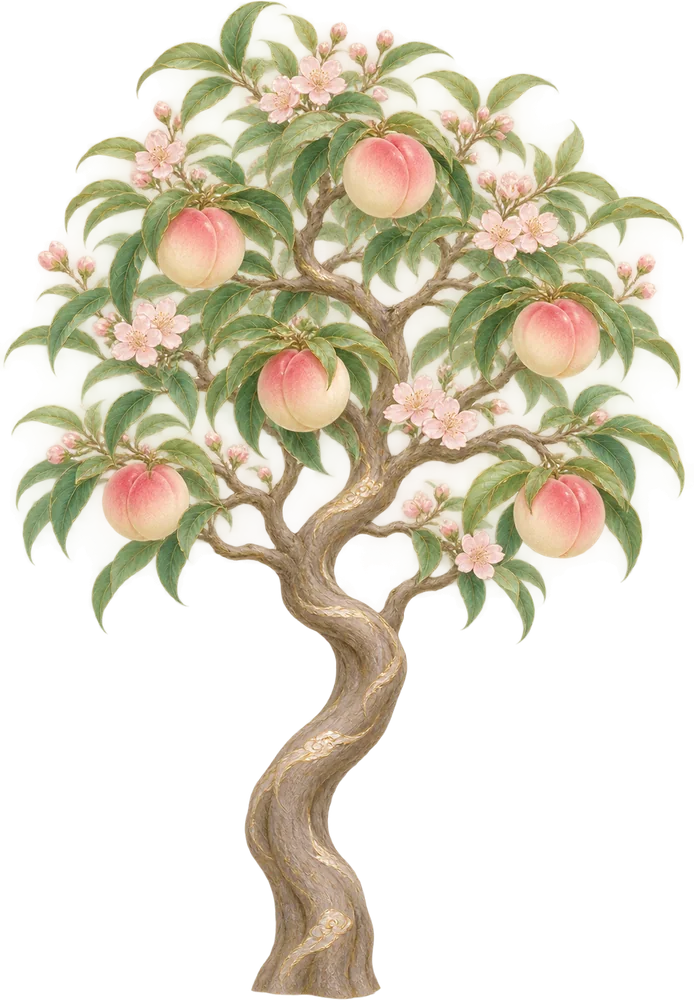
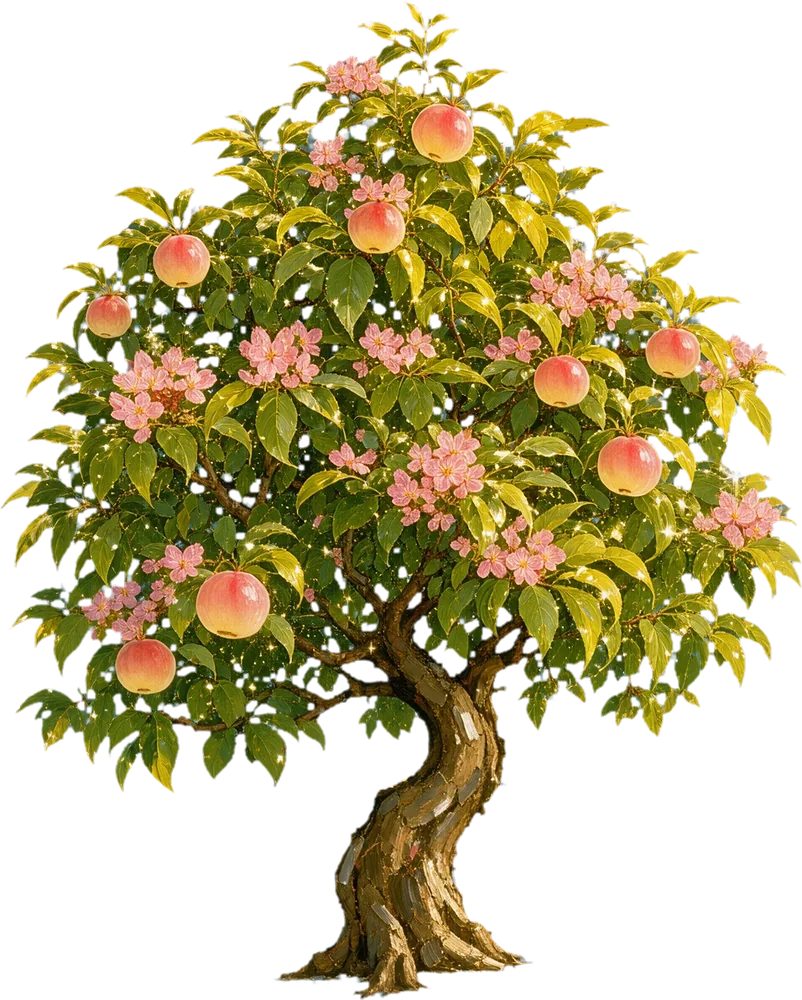
會動的元素換成鳳凰的油畫風（蟠桃樹、金蓮、稻穗、虎爺），另外加比較用的油畫版首頁（?look=oil、?look=oil-red）
- 圖都是 AI Video 用 FLUX 做的，使用者照推薦挑；tools/key_v2.py 去背（量背景色多突出，邊緣內縮 2 像素去掉色邊）
- 金蓮本身就畫成金花、青瓷葉，不用再跑 gold_lotus；稻穗不再壓低顏色
- 油畫版：大門（月白、朱紅）用現在大門的透明度，門洞、匾額、青鳥停的點都一樣；背景水平線一樣在 57.5%；開場的凡間和雲
- 不加網址的月白版不變

diff --git a/index.html b/index.html
@@ -25,6 +25,11 @@
         )
           document.documentElement.classList.add("no-intro");
       } catch (e) {}
+      // 比較用的油畫版：網址加 ?look=oil（月白油畫）或 ?look=oil-red（朱紅油畫），大門、背景、開場的雲換成油畫風
+      try {
+        var look = new URLSearchParams(location.search).get("look");
+        if (look === "oil" || look === "oil-red") document.documentElement.dataset.look = look;
+      } catch (e) {}
     </script>
   </head>
   <body>
@@ -34,6 +39,13 @@
       <img class="intro-earth" src="assets/intro-earth.webp" alt="" />
       <img class="intro-clouds back" src="assets/intro-clouds-2.webp" alt="" />
       <img class="intro-clouds front" src="assets/intro-clouds.webp" alt="" />
+      <script>
+        // 油畫版：開場的三張圖換掉
+        if (document.documentElement.dataset.look)
+          [["intro-earth", "intro-earth"], ["intro-clouds.back", "intro-clouds-2"], ["intro-clouds.front", "intro-clouds"]].forEach(function (p) {
+            document.querySelector(".intro ." + p[0]).src = "assets/oil/" + p[1] + ".webp";
+          });
+      </script>
       <div class="intro-veil"></div>
       <button type="button" class="intro-skip">略過</button>
     </div>
@@ -71,6 +83,11 @@
           <div class="door-glow" id="doorGlow"></div>
           <canvas id="cloth" aria-hidden="true"></canvas>
           <img class="gate-img" id="gateImg" src="assets/gate-grand.webp" alt="" draggable="false" />
+          <script>
+            // 油畫版：大門的圖在下載前就換掉
+            var look = document.documentElement.dataset.look;
+            if (look) document.getElementById("gateImg").src = look === "oil-red" ? "assets/oil/gate-red.webp" : "assets/oil/gate.webp";
+          </script>
           <canvas class="gate-blur" id="gateBlur" aria-hidden="true"></canvas>
           <div class="plaque" id="plaque" role="img" aria-label="慈惠道場"></div>
         </div>

diff --git a/js/gate.js b/js/gate.js
@@ -1,7 +1,8 @@
 // 大門圖片的位置資料（設計座標：大門圖寬 1600）。
 // 換新的大門圖時，跑 tools/prep_gate_grand.py 會印出門洞位置，再更新這裡。
+// 有三版：現在的月白版，和比較用的油畫版（網址加 ?look=oil 月白油畫、?look=oil-red 朱紅油畫）。
 
-export const GATE = {
+const MOON = {
   src: "assets/gate-grand.webp",
   w: 1600,
   h: 1070,
@@ -22,3 +23,24 @@ export const GATE = {
     { x: 1380, y: 403, face: -1 }
   ]
 };
+
+// 比較用的油畫版：AI Video 拿現在的大門改畫，透明度也直接用現在大門的（tools/prep_oil.py），
+// 所以門洞、匾額、青鳥停的點都一樣，只換圖
+const OIL = { ...structuredClone(MOON), src: "assets/oil/gate.webp" };
+const OIL_RED = { ...structuredClone(MOON), src: "assets/oil/gate-red.webp" };
+
+const GATES = { moon: MOON, oil: OIL, "oil-red": OIL_RED };
+
+// 背景和開場的圖
+const ASSETS = {
+  moon: { bg: "assets/bg-yaochi.webp", earth: "assets/intro-earth.webp", clouds: "assets/intro-clouds.webp", clouds2: "assets/intro-clouds-2.webp" },
+  oil: { bg: "assets/oil/bg.webp", earth: "assets/oil/intro-earth.webp", clouds: "assets/oil/intro-clouds.webp", clouds2: "assets/oil/intro-clouds-2.webp" }
+};
+ASSETS["oil-red"] = { ...ASSETS.oil, bg: "assets/oil/bg-red.webp" };
+
+// 現在是哪一版：index.html 開頭的小程式看網址設定 <html data-look>（測試的時候沒有網頁，就是月白版）
+const asked = typeof document !== "undefined" ? document.documentElement.dataset.look : "";
+export const LOOK = GATES[asked] ? asked : "moon";
+export const gateFor = (look) => GATES[look] || MOON;
+export const lookAssets = (look) => ASSETS[look] || ASSETS.moon;
+export const GATE = gateFor(LOOK);

diff --git a/js/lake-view.js b/js/lake-view.js
@@ -2,6 +2,7 @@
 // 畫布放在 .sky-img 裡面，跟原本的 CSS 背景圖疊在同一個位置：
 // 視差（跟著滑鼠微微移動）、走進門的放大、每位神明的色調（::after）都照舊套用。
 // 顯示卡不合作時就不畫，底下原本的 CSS 背景圖還在，看起來只是不會動。
+import { LOOK, lookAssets } from "./gate.js";
 import { coverMap, waterTop, createLake, touch, stepLake, rippleRadius, rippleAmp, remapRipples, HORIZON, MAX_RIPPLES } from "./lake.js";
 
 const POS_Y = 0.6; // 跟 style.css 的 background-position 一樣（center 60%）
@@ -267,6 +268,6 @@ export function loadLakeImage() {
     const im = new Image();
     im.onload = () => res(im);
     im.onerror = () => res(null);
-    im.src = "assets/bg-yaochi.webp";
+    im.src = lookAssets(LOOK).bg; // 跟 CSS 背景同一張（月白版或油畫版）
   });
 }

diff --git a/style.css b/style.css
@@ -46,6 +46,13 @@ body {
   transform: translate3d(calc(var(--mx, 0) * -14px), calc(var(--my, 0) * -8px), 0) scale(var(--zoom, 1));
   transition: transform 2s var(--ease);
 }
+/* 比較用的油畫版（網址加 ?look=oil 或 ?look=oil-red） */
+[data-look="oil"] .sky-img {
+  background-image: url("assets/oil/bg.webp");
+}
+[data-look="oil-red"] .sky-img {
+  background-image: url("assets/oil/bg-red.webp");
+}
 /* 每位神明一層不同的晨光色調 */
 .sky-img::after {
   content: "";

diff --git a/tools/key_v2.py b/tools/key_v2.py
@@ -1,0 +1,100 @@
+"""把 AI Video（FLUX）做的油畫風元素去背，存成透明 PNG，給 tools/prep_elements.py、prep_peach.py 等接著用。
+用法: python -I tools/key_v2.py
+輸入: assets/raw/chatgpt2/*（使用者 2026-11-15 照推薦挑的那張）
+輸出: assets/raw/chatgpt2/keyed/{名稱}.png
+
+FLUX 畫不出純色背景（有筆觸、顏色也不太一樣），所以不量「跟某個顏色多近」，改量「背景那個顏色多突出」：
+  綠底：綠比紅藍高多少；洋紅底：紅藍比綠高多少；藍底：藍比紅綠高多少；黑底：多亮。
+  背景那種顏色越突出 → 越透明，邊緣用一小段漸變；邊緣把混進來的背景色壓掉。
+最後只留大塊的（主體），背景上零星的小點、小火星拿掉。
+"""
+from pathlib import Path
+
+import numpy as np
+from PIL import Image
+from scipy import ndimage
+
+RAW = Path("assets/raw/chatgpt2")
+OUT = RAW / "keyed"
+
+# 名稱: (來源檔, 背景, 保留小塊的最小面積比例)
+# TIGHT：背景突出到角落典型值的幾成就算背景（預設 0.7；稻穗原圖在穀粒外畫了一圈淡粉紅的光，要更嚴）
+TIGHT = {"rice": 0.35}
+ITEMS = {
+    "peach-tree": ("peach-tree-v2-1.png", "blue", 0.002),
+    "lotus-open": ("lotus-open-v2-1.png", "magenta", 0.002),
+    "lotus-bud": ("lotus-bud-v2-1.png", "magenta", 0.002),
+    "lotus-leaf": ("lotus-leaf-v2-2.png", "magenta", 0.002),
+    "rice": ("rice-v2-2.png", "magenta", 0.0005),
+    "tiger": ("tiger-v2-2.png", "green", 0.002),
+    "fuchen": ("fuchen-2.png", "black", 0.0005),
+    "cloud-wisp": ("cloud-wisp-4.png", "black", 0.002),
+    "qiankunquan": ("qiankunquan-2.png", "green", 0.002),
+    "huojianqiang": ("huojianqiang-2.png", "green", 0.0005),
+}
+
+
+def dominance(rgb, bg):
+    r, g, b = rgb[..., 0], rgb[..., 1], rgb[..., 2]
+    if bg == "green":
+        return g - np.maximum(r, b)
+    if bg == "magenta":
+        return np.minimum(r, b) - g
+    if bg == "blue":
+        return b - np.maximum(r, g)
+    raise ValueError(bg)
+
+
+def key(rgb, bg, tight=0.7):
+    if bg == "black":
+        lum = rgb.max(axis=2)
+        a = np.clip((lum - 45) / 70, 0, 1)
+        out = rgb / np.maximum(a[..., None], 0.3)
+        return out, a
+    d = dominance(rgb, bg)
+    # 量四個角：背景有多突出（每張不太一樣）
+    corners = np.concatenate([d[:40, :40].ravel(), d[:40, -40:].ravel(), d[-40:, :40].ravel(), d[-40:, -40:].ravel()])
+    full = np.percentile(corners, 20)  # 這麼突出 = 完全是背景
+    # 背景的筆觸有深有淺：突出到「角落典型值的 7 成」就算背景，3 成以下才完全不透明（邊緣不留一圈背景色）
+    a = np.clip((full * tight - d) / (full * 0.4), 0, 1)
+    # 邊緣去色：邊緣的顏色 = 主體 ×a + 背景 ×(1-a)，把背景那一份扣掉（背景色用四個角的中位數）
+    edge = lambda x: np.concatenate([x[:40, :40].reshape(-1, 3), x[:40, -40:].reshape(-1, 3), x[-40:, :40].reshape(-1, 3), x[-40:, -40:].reshape(-1, 3)])
+    bgcol = np.median(edge(rgb), axis=0)
+    av = np.maximum(a, 0.15)[..., None]
+    out = np.clip((rgb - (1 - av) * bgcol) / av, 0, 255)
+    # 還殘留的背景色壓掉（只壓到跟其他顏色一樣高，主體本身的顏色不受影響）
+    if bg == "green":
+        out[..., 1] = np.minimum(out[..., 1], np.maximum(out[..., 0], out[..., 2]))
+    elif bg == "magenta":
+        out[..., 2] = np.where(a < 1, np.minimum(out[..., 2], out[..., 1] + 10), out[..., 2])
+    elif bg == "blue":
+        out[..., 2] = np.where(a < 1, np.minimum(out[..., 2], np.maximum(out[..., 0], out[..., 1]) + 10), out[..., 2])
+    # FLUX 的筆觸會把背景色混進主體最外面 1～2 像素（細細一圈粉紅或綠）：透明度往內縮 2 像素、再柔化
+    a = ndimage.minimum_filter(a, size=5)
+    a = ndimage.uniform_filter(a, size=3)
+    return out, a
+
+
+def keep_big(a, min_frac):
+    lab, n = ndimage.label(a > 0.1)
+    if n == 0:
+        return a
+    sizes = ndimage.sum(np.ones_like(a), lab, range(1, n + 1))
+    keep = np.zeros(n + 1, bool)
+    keep[1:] = sizes >= max(min_frac * a.size, 30)
+    keep[1 + int(np.argmax(sizes))] = True
+    # 半透明的邊（< 0.1）跟著旁邊的大塊走：稍微長大一點的範圍內才保留
+    mask = ndimage.binary_dilation(keep[lab], iterations=3)
+    return np.where(mask, a, 0)
+
+
+OUT.mkdir(parents=True, exist_ok=True)
+for name, (src, bg, min_frac) in ITEMS.items():
+    rgb = np.asarray(Image.open(RAW / src).convert("RGB")).astype(float)
+    out, a = key(rgb, bg, TIGHT.get(name, 0.7))
+    a = keep_big(a, min_frac)
+    a[a < 0.03] = 0
+    img = Image.fromarray(np.dstack([out, a * 255]).clip(0, 255).astype(np.uint8), "RGBA")
+    img.save(OUT / f"{name}.png")
+    ys, xs = np.nonzero(a > 0.5)
+    print(f"{name:13s} {bg:7s} 主體 {xs.min()}-{xs.max()} x {ys.min()}-{ys.max()}  不透明 {(a > 0.5).mean():.0%}")

diff --git a/tools/prep_oil.py b/tools/prep_oil.py
@@ -1,0 +1,66 @@
+"""比較用的油畫版首頁（網址 ?look=oil 月白油畫、?look=oil-red 朱紅油畫）：大門、背景、開場的圖。
+用法: python -I tools/prep_oil.py
+輸入: assets/raw/chatgpt2/（都是 AI Video 用 FLUX 改現在的圖做的，構圖一樣）
+  oil-gate-a2-flat.png、oil-gate-b2-flat.png：大門（背景、門洞、窗格已經是純綠）
+  oil-bg-a2.png、oil-bg-b2.png：瑤池背景（有才做；水平線要跟 bg-yaochi 一樣在 57.5%）
+  oil-intro-earth-3.png：開場的凡間
+  oil-intro-clouds.png、oil-intro-clouds-2.png：開場的雲（黑底）
+輸出: assets/oil/
+
+做法：
+- 大門：放大成跟現在的大門一樣大（3054x2043），透明度直接用現在大門的
+  （AI Video 也是用這個遮罩把背景塗綠的），所以門洞、匾額、青鳥停的點全部一樣，js/gate.js 不用重量。
+  邊緣半透明的地方把混進來的綠扣掉。
+- 雲：黑底 → 用亮度當透明度（暗的地方透明），顏色除回去，邊緣不會發黑。
+"""
+from pathlib import Path
+
+import numpy as np
+from PIL import Image
+
+RAW = Path("assets/raw/chatgpt2")
+OUT = Path("assets/oil")
+OUT.mkdir(parents=True, exist_ok=True)
+
+
+def gate(src, dst):
+    live = Image.open("assets/gate-grand.webp").convert("RGBA")
+    im = Image.open(RAW / src).convert("RGB").resize(live.size, Image.LANCZOS)
+    rgb = np.asarray(im).astype(float)
+    alpha = np.asarray(live)[..., 3].astype(float)
+    # 綠比紅和藍都高的地方（邊緣混到的綠）：綠壓到紅藍的最大值
+    rgb[..., 1] = np.minimum(rgb[..., 1], np.maximum(rgb[..., 0], rgb[..., 2]) + 6)
+    out = np.dstack([rgb, alpha]).clip(0, 255).astype(np.uint8)
+    Image.fromarray(out, "RGBA").save(OUT / dst, quality=85, method=6)
+    print(dst, live.size, f"{(OUT / dst).stat().st_size // 1024} KB")
+
+
+def clouds(src, dst):
+    a = np.asarray(Image.open(RAW / src).convert("RGB")).astype(float)
+    lum = a.max(axis=2)
+    alpha = np.clip((lum - 70) / 90, 0, 1)
+    rgb = np.where(alpha[..., None] > 0, a / np.maximum(alpha[..., None], 0.35), 0)
+    out = np.dstack([rgb, alpha * 255]).clip(0, 255).astype(np.uint8)
+    Image.fromarray(out, "RGBA").save(OUT / dst, quality=85, method=6)
+    print(dst, f"{(OUT / dst).stat().st_size // 1024} KB")
+
+
+def plain(src, dst, size=None):
+    p = RAW / src
+    if not p.exists():
+        print("skip", src, "(還沒有)")
+        return
+    im = Image.open(p).convert("RGB")
+    if size:
+        im = im.resize(size, Image.LANCZOS)
+    im.save(OUT / dst, quality=85, method=6)
+    print(dst, im.size, f"{(OUT / dst).stat().st_size // 1024} KB")
+
+
+gate("oil-gate-a2-flat.png", "gate.webp")
+gate("oil-gate-b2-flat.png", "gate-red.webp")
+plain("oil-bg-a2.png", "bg.webp", (1536, 1024))
+plain("oil-bg-b2.png", "bg-red.webp", (1536, 1024))
+plain("oil-intro-earth-3.png", "intro-earth.webp")
+clouds("oil-intro-clouds.png", "intro-clouds.webp")
+clouds("oil-intro-clouds-2.png", "intro-clouds-2.webp")

diff --git a/tools/prep_elements.py b/tools/prep_elements.py
@@ -1,7 +1,8 @@
 """把仙佛元素的圖（透明背景 PNG）裁掉多餘的透明邊、縮小，存成網頁用的 webp。
 用法: python -I tools/prep_elements.py
-輸入: assets/raw/chatgpt2/rice.png、lotus-open.png、lotus-bud.png、lotus-leaf.png、tiger.png
-注意: 蓮花三張之後改用 tools/gold_lotus.py apply B 做成金蓮（這支會蓋回粉紅色，跑完要再跑一次 gold_lotus）
+輸入: assets/raw/chatgpt2/keyed/rice.png、lotus-open.png、lotus-bud.png、lotus-leaf.png、tiger.png
+      （2026-11-15 起是 AI Video 做的油畫風版本，先用 tools/key_v2.py 去背；
+       蓮花本身就畫成金花、青瓷葉了，不用再跑 tools/gold_lotus.py）
 輸出: assets/elements/*.webp，和 elements.json（每張多大、稻穗莖的底部在哪）
 """
 import json
@@ -10,7 +11,7 @@ from pathlib import Path
 import numpy as np
 from PIL import Image
 
-RAW = Path("assets/raw/chatgpt2")
+RAW = Path("assets/raw/chatgpt2/keyed")
 OUT = Path("assets/elements")
 # 名稱: 縮到多高（像素）
 ITEMS = {"rice": 600, "lotus-open": 300, "lotus-bud": 300, "lotus-leaf": 300, "tiger": 300}
@@ -24,12 +25,6 @@ for name, height in ITEMS.items():
     im = im.crop(im.getbbox())
     w = round(im.width * height / im.height)
     im = im.resize((w, height), Image.LANCZOS)
-    if name == "rice":
-        # 顏色壓低一點（配月白素雅）：往灰階靠 25%
-        arr = np.asarray(im).astype(float)
-        gray = arr[..., :3] @ np.array([0.299, 0.587, 0.114])
-        arr[..., :3] = arr[..., :3] * 0.75 + gray[..., None] * 0.25
-        im = Image.fromarray(arr.clip(0, 255).astype(np.uint8), "RGBA")
     im.save(OUT / f"{name}.webp", quality=84, method=6)
     info = {"w": w, "h": height}
     if name == "rice":

diff --git a/tools/prep_peach.py b/tools/prep_peach.py
@@ -1,6 +1,6 @@
 """蟠桃樹的圖：裁掉多餘的透明邊、縮小，存成網頁用的 webp。
 用法: python -I tools/prep_peach.py
-輸入: assets/raw/chatgpt2/peach-tree.png（ChatGPT 生的，樹冠外有一圈很淡的光暈，放在背景上幾乎看不出來，保留）
+輸入: assets/raw/chatgpt2/keyed/peach-tree.png（2026-11-15 起是 AI Video 做的油畫風版本，先用 tools/key_v2.py 去背）
 輸出: assets/elements/peach-tree.webp
 """
 from pathlib import Path
@@ -8,7 +8,7 @@ from pathlib import Path
 import numpy as np
 from PIL import Image
 
-im = Image.open("assets/raw/chatgpt2/peach-tree.png").convert("RGBA")
+im = Image.open("assets/raw/chatgpt2/keyed/peach-tree.png").convert("RGBA")
 a = np.asarray(im)[..., 3]
 im.putalpha(Image.fromarray(np.where(a < 8, 0, a).astype(np.uint8)))
 im = im.crop(im.getbbox())
